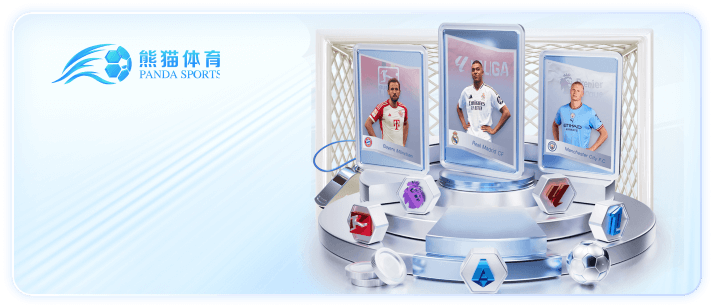
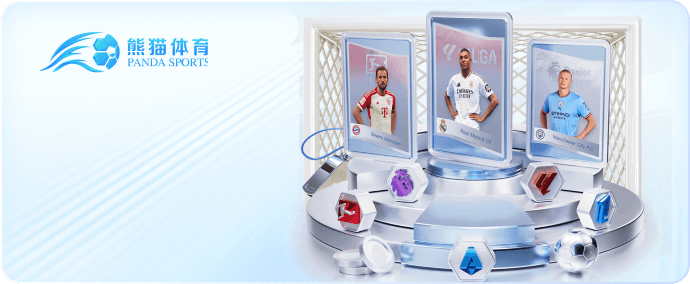
feat: [lk6 h5] Adjust home page ui

diff --git a/lk6-static-h5/src/pages/HomePage.vue b/lk6-static-h5/src/pages/HomePage.vue
@@ -47,8 +47,8 @@
                 {{ $t("btn.register") }}
               </q-btn>
             </router-link>
-            
-            <LocaleSelector style="margin-right: -10px;" />
+
+            <LocaleSelector style="margin-right: -10px" />
           </template>
         </div>
       </div>
@@ -95,7 +95,7 @@
             :key="i"
             :name="i"
             class="flex-center"
-            style="background-size: cover;"
+            style="background-size: cover"
             :img-src="imgURL + banner.mobileImageUrl"
             @click="gotoPromo(banner)"
           ></q-carousel-slide>
@@ -2084,7 +2084,7 @@ export default defineComponent({
 }
 
 .home-header-section {
-  padding: 8px 10px 0;
+  padding: 0 10px;
   width: 100%;
   display: flex;
   justify-content: space-between;
@@ -2311,7 +2311,7 @@ export default defineComponent({
             flex-direction: column;
             justify-content: space-between;
             color: #7a80a1;
-            // transform: translate(-50%);            
+            // transform: translate(-50%);
             bottom: 20px;
             left: 25px;
             .redirect-button {
@@ -2350,6 +2350,7 @@ export default defineComponent({
           }
 
           .game-bg {
+            box-shadow: 0px 0px 5.9px 0px #93c7ff69;
             background-size: 100% 100%;
             aspect-ratio: 345/142;
             background-repeat: no-repeat;
@@ -2599,7 +2600,7 @@ export default defineComponent({
 @import url("https://fonts.googleapis.com/css2?family=Bungee&display=swap");
 
 .midd {
-  margin: 10px auto;
+  margin: 0 auto 10px;
   height: 30px;
   position: relative;
   overflow: hidden;
@@ -2973,7 +2974,7 @@ export default defineComponent({
   background: linear-gradient(180deg, #f8fcff 0%, #dfecff 194.05%);
   padding: 16px;
   color: #7a80a1;
-  margin-bottom: 16px;
+  margin-bottom: 15px;
 
   .home-auth-subsection {
     flex: 1;

diff --git a/lk6-static-h5/src/components/home/GameTypeSwiper.vue b/lk6-static-h5/src/components/home/GameTypeSwiper.vue
@@ -23,7 +23,6 @@
       <div
         class="home-select-slide row items-center align-center justify-center gap-8"
         :class="selectedTab == tab.name ? 'selected' : ''"
-        
       >
         <img
           :style="`margin-top:${tab.mb}px;`"
@@ -92,7 +91,7 @@ watch(selectedTab, scrollSlide);
   justify-content: flex-start;
   align-items: stretch;
   padding: 4px 5px;
-  margin-bottom: 16px;
+  margin-bottom: 15px;
 }
 
 .home-select-slide {

diff --git a/lk6-static-h5/src/css/app.scss b/lk6-static-h5/src/css/app.scss
@@ -166,7 +166,7 @@ img.svg {
 
 .q-carousel.home {
   height: auto;
-  aspect-ratio: 1040/ 438;
+  aspect-ratio: 345/ 130;
   max-height: 400px;
   border-radius: 15px;
   box-shadow: none;
